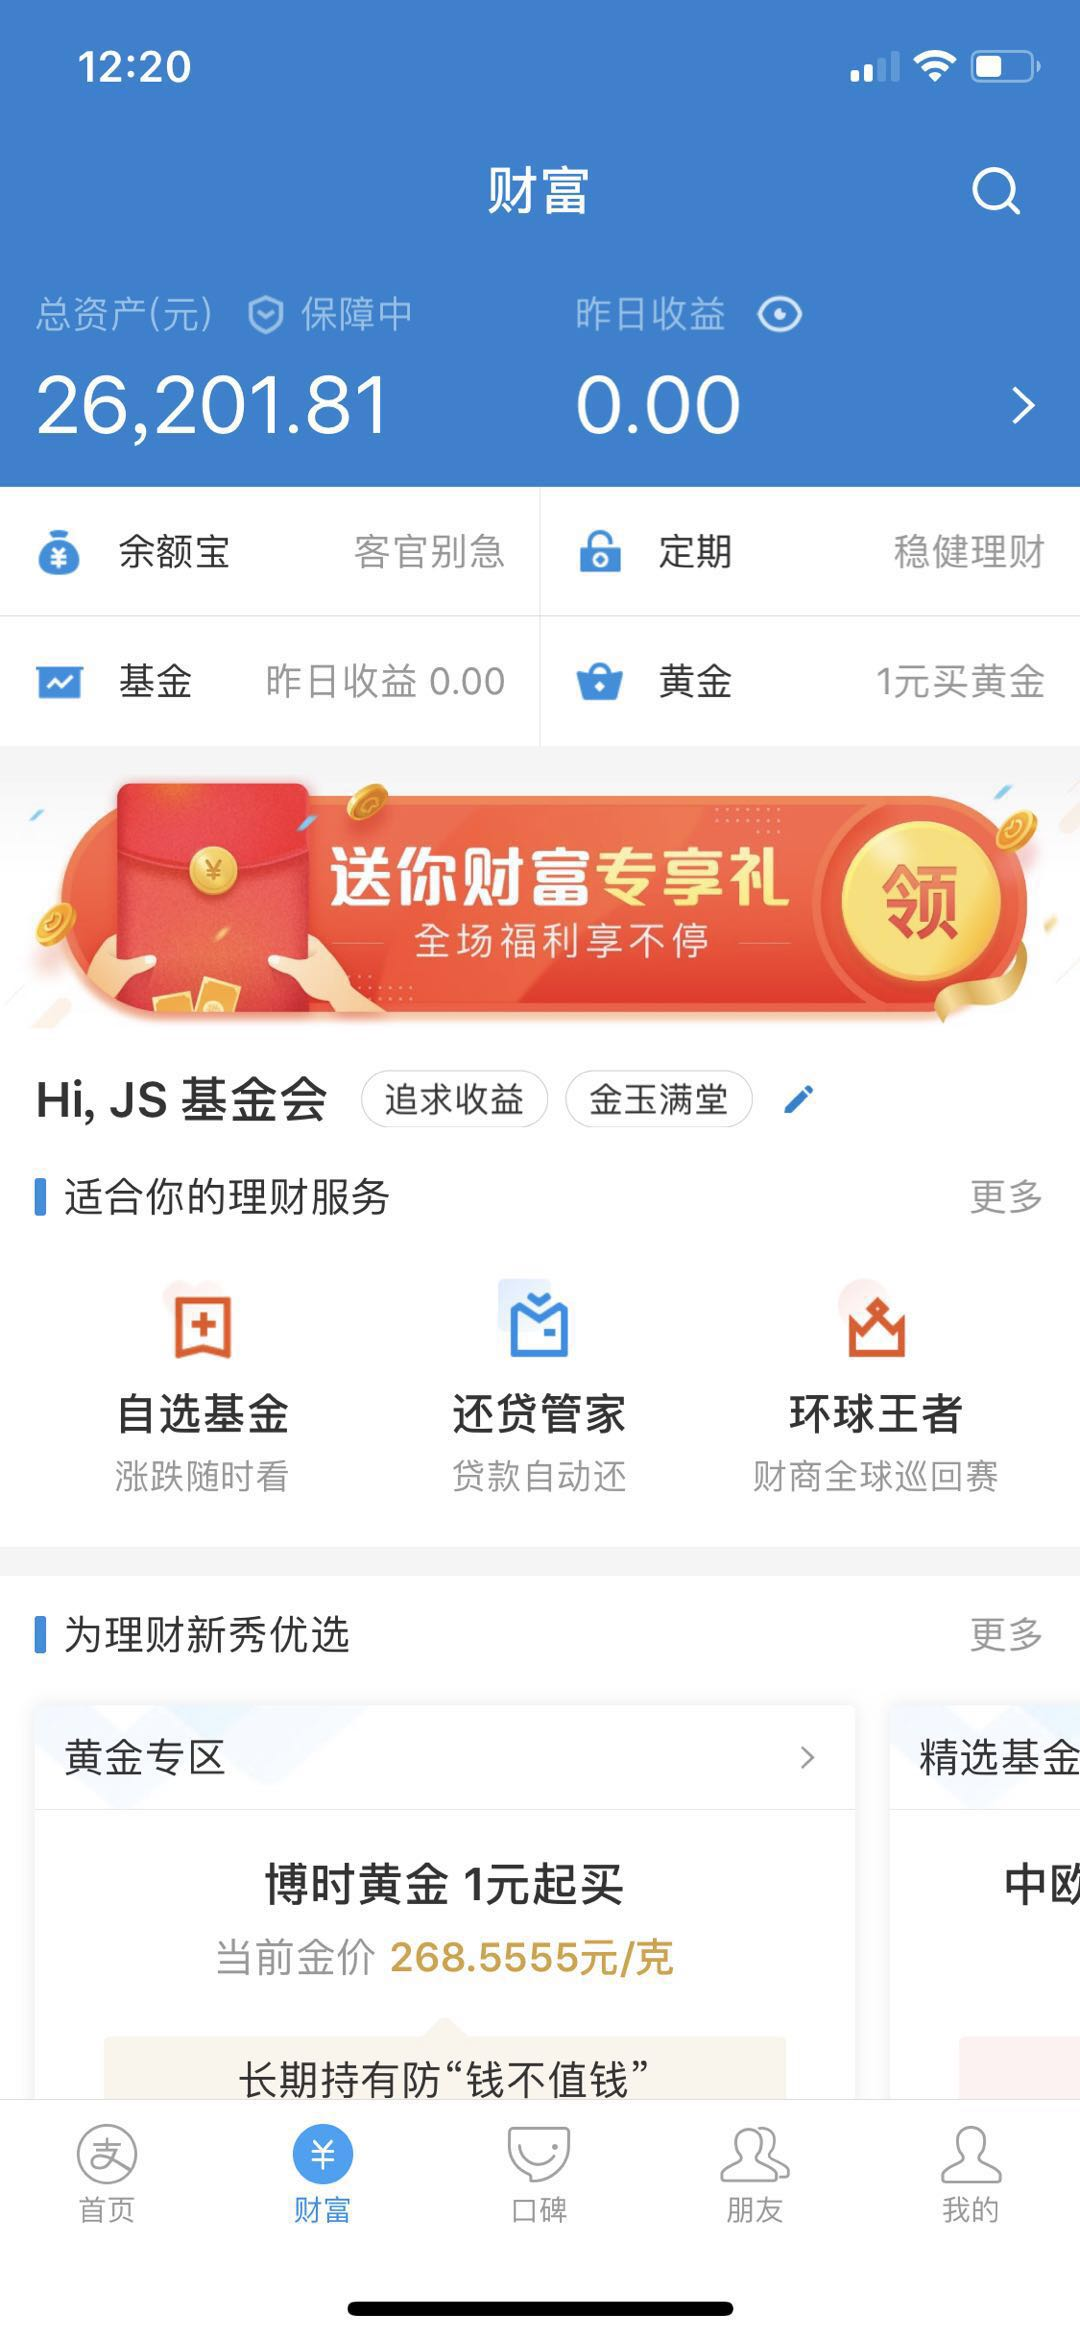
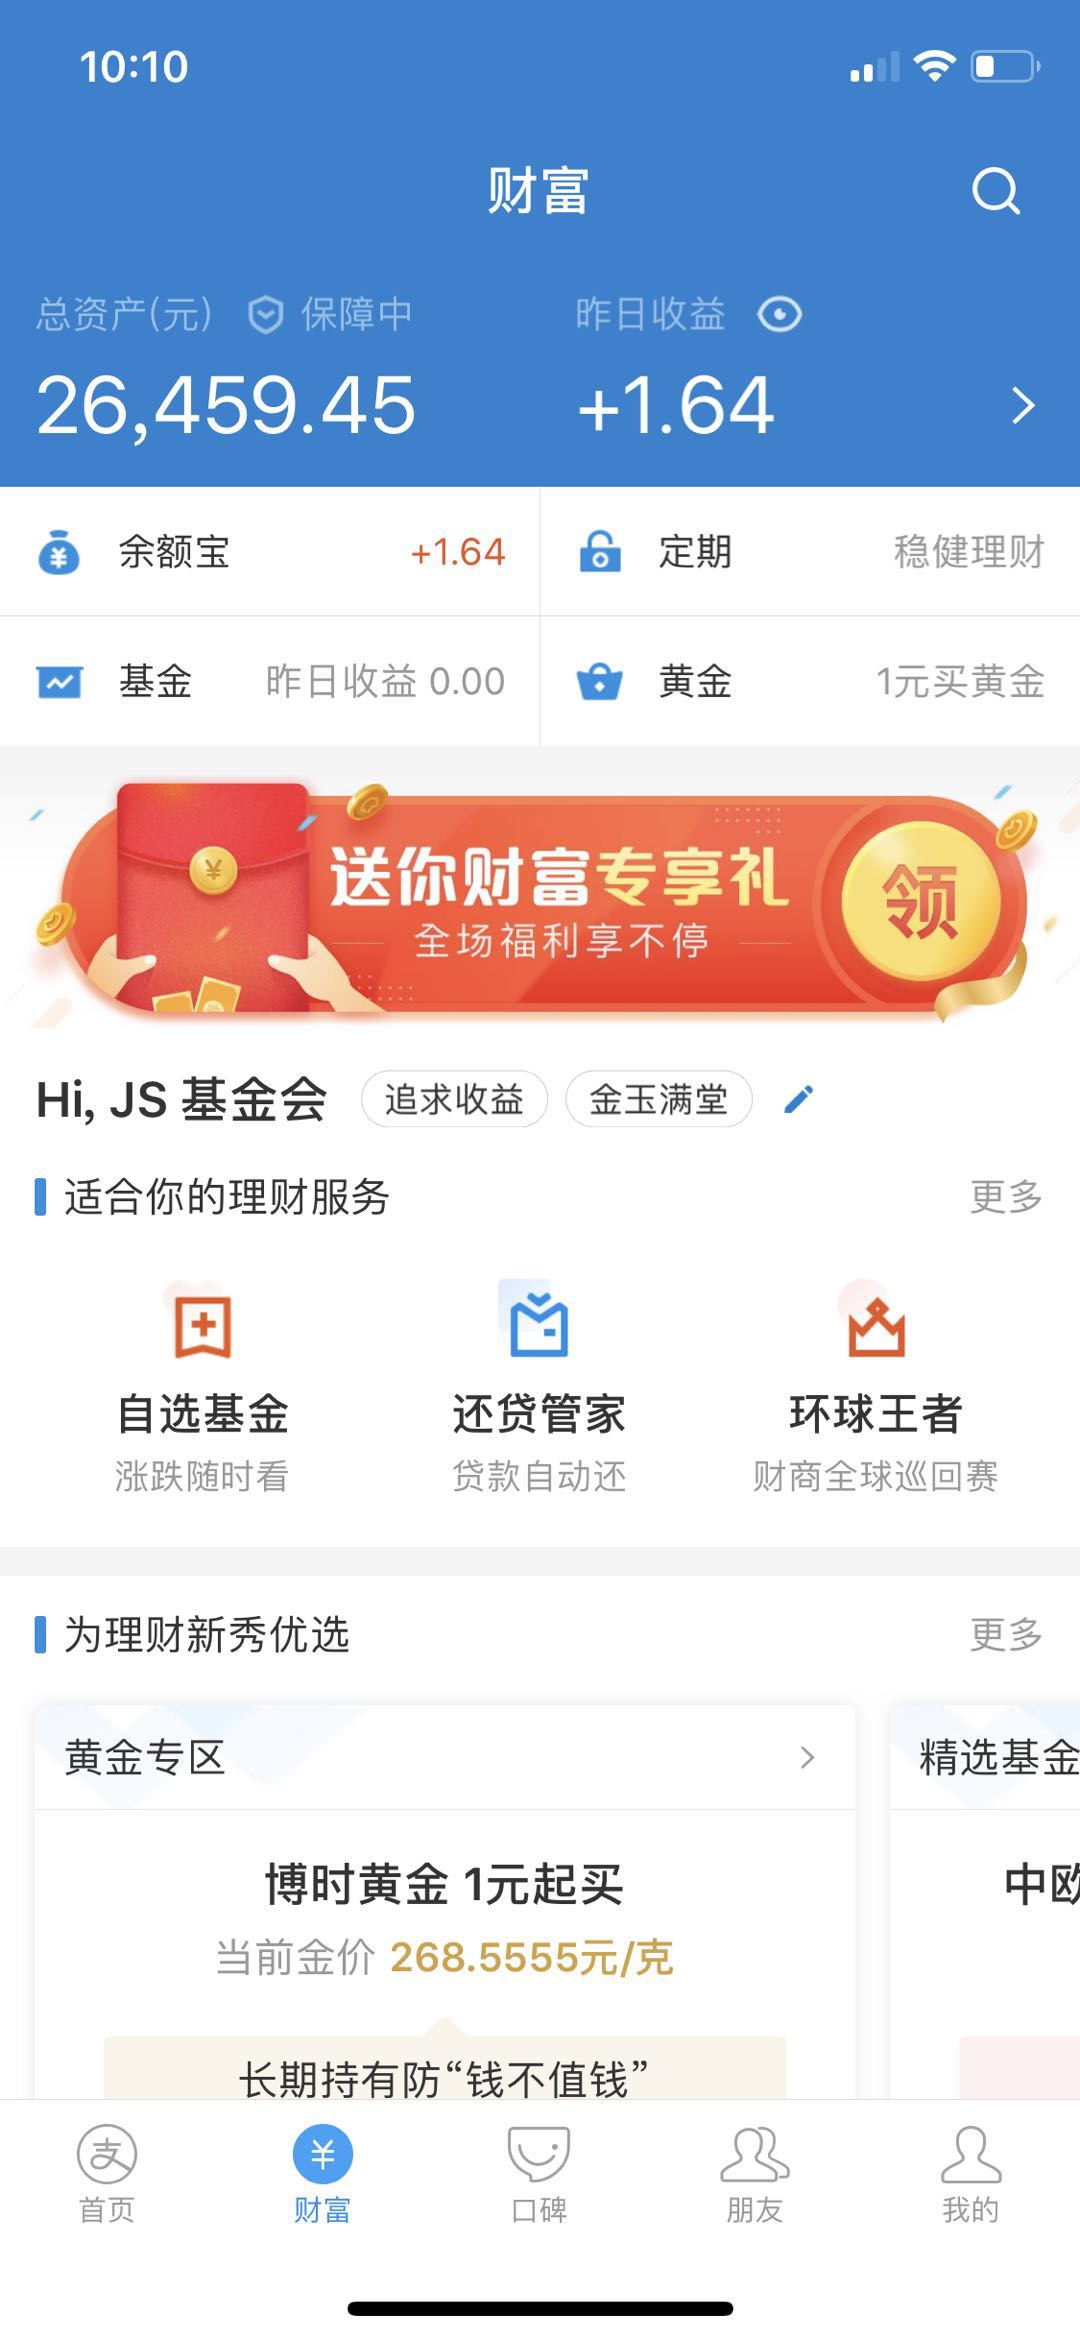
income: 2018.6.12日 个人赞助: 256 by @shitiven

diff --git a/README.md b/README.md
@@ -1,6 +1,6 @@
 #  NodeParty 开源基金会运作草案 
 
-![](https://img.shields.io/badge/余额-26201.81%20元-green.svg) ![](https://img.shields.io/badge/赞助笔数-38%20笔-green.svg) ![](https://img.shields.io/badge/待入账-0.00%20元-blue.svg)
+![](https://img.shields.io/badge/余额-26459.45%20元-green.svg) ![](https://img.shields.io/badge/赞助笔数-38%20笔-green.svg) ![](https://img.shields.io/badge/待入账-0.00%20元-blue.svg)
 
 ## 组织介绍
 
@@ -135,6 +135,7 @@ Commit Message 需按照此格式：
 | @Keith-CY | 300.00 | 2017-11-23 | 个人赞助 | [#44](https://github.com/Hangzhou-Node-Party/JS-OpenSource-Foundation/issues/44) |
 | @Coding.net | 3000.00 | 2017-11-24 | 企业赞助 | [#46](https://github.com/Hangzhou-Node-Party/JS-OpenSource-Foundation/issues/46) |
 | @天宇 | 102.40 | 2018-06-11 | 个人赞助 | [#49](https://github.com/Hangzhou-Node-Party/JS-OpenSource-Foundation/issues/49) |
+| @shitiven | 256.00 | 2018-06-12 | 个人赞助 | [#49](https://github.com/Hangzhou-Node-Party/JS-OpenSource-Foundation/issues/50) |
 
 感谢以下企业的赞助：
 
@@ -183,7 +184,7 @@ Commit Message 需按照此格式：
 <!-- money start -->
 | 款项 | 金额 |
 |------|------|
-| **总额** | 26201.81 元 |
+| **总额** | 26459.45 元 |
 | **待入账** | 0.00 元 |
 <!-- money end -->
 

diff --git a/INCOMING.md b/INCOMING.md
@@ -39,3 +39,4 @@
 | @Keith-CY | 300.00 | 2017-11-23 | 个人赞助 | [#44](https://github.com/Hangzhou-Node-Party/JS-OpenSource-Foundation/issues/44) |
 | @Coding.net | 3000.00 | 2017-11-24 | 企业赞助 | [#46](https://github.com/Hangzhou-Node-Party/JS-OpenSource-Foundation/issues/46) |
 | @天宇 | 102.40 | 2018-06-11 | 个人赞助 | [#49](https://github.com/Hangzhou-Node-Party/JS-OpenSource-Foundation/issues/49) |
+| @shitiven | 256.00 | 2018-06-12 | 个人赞助 | [#49](https://github.com/Hangzhou-Node-Party/JS-OpenSource-Foundation/issues/50) |
